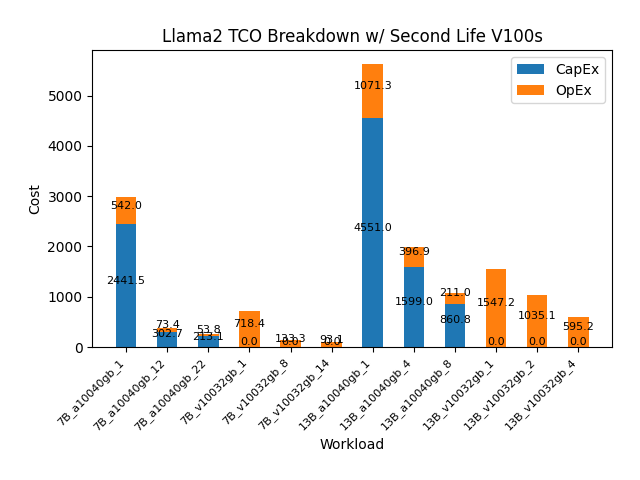
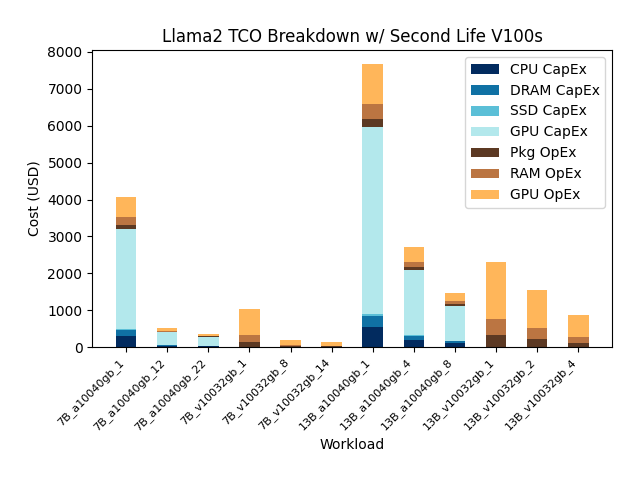
tco breakdown has nice p[retty colors

diff --git a/nvidia-gpu/tensorrt-llm/plotting/gpu_batch_exp_plotting.py b/nvidia-gpu/tensorrt-llm/plotting/gpu_batch_exp_plotting.py
@@ -729,21 +729,25 @@ def plot_tco_breakdown(
 
             server_lifetime_s = years_to_sec(server_lifetime_y)
 
-            # Calculate CapEx costs from CPU
-            single_server_cpu_cost = gpu_server_cost_data['CPU']
-            total_server_cpu_cost = single_server_cpu_cost * num_gpu_servers_req * (workload_duration_s / server_lifetime_s)
+            # CapEx costs are 0 for second-life V100s
+            if second_life and bmark_param_group_dict['gpu_type'] == 'v10032gb':
+                total_server_cpu_cost, total_server_dram_cost, total_server_ssd_cost, total_server_gpu_cost = 0, 0, 0, 0
+            else:
+                # Calculate CapEx costs from CPU
+                single_server_cpu_cost = gpu_server_cost_data['CPU']
+                total_server_cpu_cost = single_server_cpu_cost * num_gpu_servers_req * (workload_duration_s / server_lifetime_s)
 
-            # Calculate CapEx costs from DRAM
-            single_server_dram_cost = gpu_server_cost_data['DRAM']
-            total_server_dram_cost = single_server_dram_cost * num_gpu_servers_req * (workload_duration_s / server_lifetime_s)
+                # Calculate CapEx costs from DRAM
+                single_server_dram_cost = gpu_server_cost_data['DRAM']
+                total_server_dram_cost = single_server_dram_cost * num_gpu_servers_req * (workload_duration_s / server_lifetime_s)
 
-            # Calculate CapEx costs from SSD
-            single_server_ssd_cost = gpu_server_cost_data['SSD']
-            total_server_ssd_cost = single_server_ssd_cost * num_gpu_servers_req * (workload_duration_s / server_lifetime_s)
+                # Calculate CapEx costs from SSD
+                single_server_ssd_cost = gpu_server_cost_data['SSD']
+                total_server_ssd_cost = single_server_ssd_cost * num_gpu_servers_req * (workload_duration_s / server_lifetime_s)
 
-            # Calculate CapEx costs from GPU
-            single_server_gpu_cost = gpu_server_cost_data['GPU']
-            total_server_gpu_cost = single_server_gpu_cost * num_gpu_servers_req * (workload_duration_s / server_lifetime_s)
+                # Calculate CapEx costs from GPU
+                single_server_gpu_cost = gpu_server_cost_data['GPU']
+                total_server_gpu_cost = single_server_gpu_cost * num_gpu_servers_req * (workload_duration_s / server_lifetime_s)
 
             # Calculate CapEx costs from workload duration, single gpu price, and gpu lifetime
             total_capex_cost = total_server_cpu_cost + total_server_dram_cost + total_server_ssd_cost + total_server_gpu_cost
@@ -770,32 +774,32 @@ def plot_tco_breakdown(
         bar_positions,
         total_server_cpu_costs,
         bar_width,
-        label='CPU',
-        color='#1f77b4'
+        label='CPU CapEx',
+        color='#022b5f'
     )
     dram_bars = ax.bar(
         bar_positions,
         total_server_dram_costs,
         bar_width,
         bottom=total_server_cpu_costs,
-        label='DRAM',
-        color='#aec7e8'
+        label='DRAM CapEx',
+        color='#1071a4'
     )
     ssd_bars = ax.bar(
         bar_positions,
         total_server_ssd_costs,
         bar_width,
         bottom=[i+j for i,j in zip(total_server_cpu_costs, total_server_dram_costs)],
-        label='SSD',
-        color='#ff7f0e'
+        label='SSD CapEx',
+        color='#5bbfd7'
     )
     gpu_bars = ax.bar(
         bar_positions,
         total_server_gpu_costs,
         bar_width,
         bottom=[i+j+k for i,j,k in zip(total_server_cpu_costs, total_server_dram_costs, total_server_ssd_costs)],
-        label='GPU',
-        color='#ffbb78'
+        label='GPU CapEx',
+        color='#b3e8ec'
     )
 
     pkg_energy_bars = ax.bar(
@@ -803,24 +807,24 @@ def plot_tco_breakdown(
         total_pkg_energy_costs,
         bar_width,
         bottom=[i+j+k+l for i,j,k,l in zip(total_server_cpu_costs, total_server_dram_costs, total_server_ssd_costs, total_server_gpu_costs)],
-        label='Pkg Energy',
-        color='#d62728'
+        label='Pkg OpEx',
+        color='#5c3923'
     )
     ram_energy_bars = ax.bar(
         bar_positions,
         total_ram_energy_costs,
         bar_width,
         bottom=[i+j+k+l+m for i,j,k,l,m in zip(total_server_cpu_costs, total_server_dram_costs, total_server_ssd_costs, total_server_gpu_costs, total_pkg_energy_costs)],
-        label='RAM Energy',
-        color='#ff9896'
+        label='RAM OpEx',
+        color='#bb7542'
     )
     gpu_energy_bars = ax.bar(
         bar_positions,
         total_gpu_energy_costs,
         bar_width,
         bottom=[i+j+k+l+m+n for i,j,k,l,m,n in zip(total_server_cpu_costs, total_server_dram_costs, total_server_ssd_costs, total_server_gpu_costs, total_pkg_energy_costs, total_ram_energy_costs)],
-        label='GPU Energy',
-        color='#9467bd'
+        label='GPU OpEx',
+        color='#ffb65a'
     )
 
     ax.set_xlabel('Workload')
@@ -831,16 +835,16 @@ def plot_tco_breakdown(
     ax.legend()
 
     # Add cost number to capex and opex bars
-    for bar, capex, opex in zip(capex_bars, total_capex_costs, total_opex_costs):
-        height = bar.get_height()
-        ax.text(
-            bar.get_x() + bar.get_width() / 2.0, height / 2,
-            f'{capex:.1f}', ha='center', va='bottom', color='black', fontsize=8
-        )
-        ax.text(
-            bar.get_x() + bar.get_width() / 2.0, height + opex / 2,
-            f'{opex:.1f}', ha='center', va='bottom', color='black', fontsize=8
-        )
+    #for bar, capex, opex in zip(cpu_bars, total_capex_costs, total_opex_costs):
+    #    height = bar.get_height()
+    #    ax.text(
+    #        bar.get_x() + bar.get_width() / 2.0, height / 2,
+    #        f'{capex:.1f}', ha='center', va='bottom', color='black', fontsize=8
+    #    )
+    #    ax.text(
+    #        bar.get_x() + bar.get_width() / 2.0, height + opex / 2,
+    #        f'{opex:.1f}', ha='center', va='bottom', color='black', fontsize=8
+    #    )
 
     plt.tight_layout(pad=2.0)
     plt.savefig('plots/' + plot_filename)
